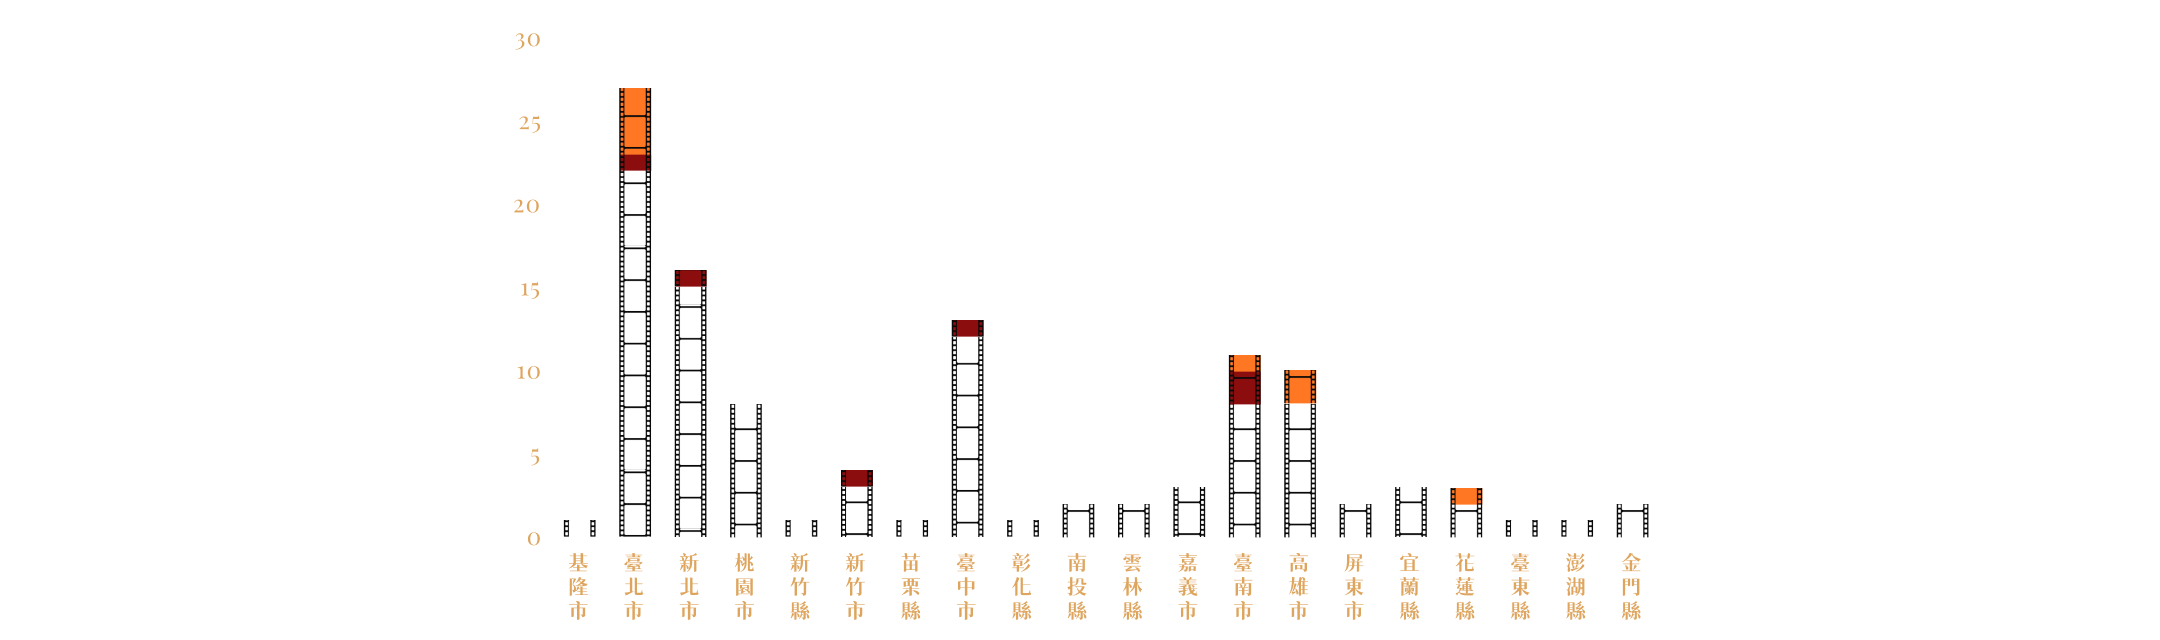
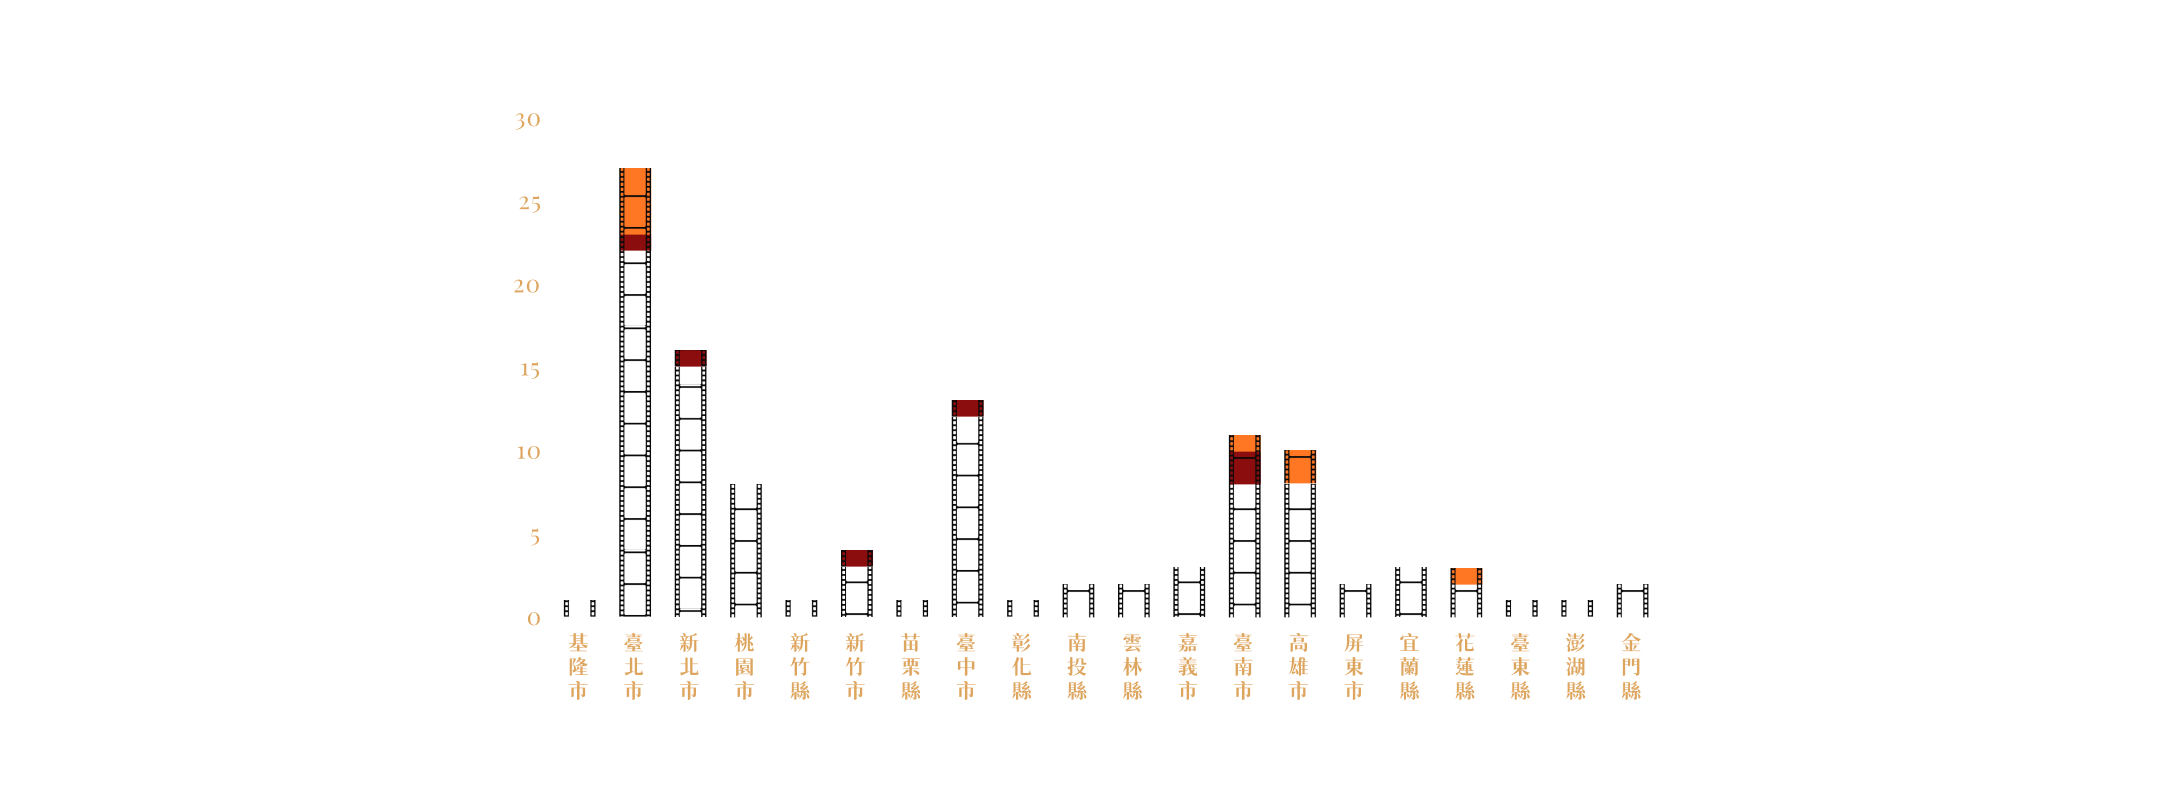
infographic

Changed region(s): [[0.2481, 0.125, 0.7755, 0.9688], [0.4343, 0.5, 0.4653, 0.7188]]

diff --git a/projects/classic-movie.html b/projects/classic-movie.html
@@ -264,12 +264,10 @@
             <div class="iteration">
               <div>Iteration 1</div>
               <div class="iterate-note">
-                As a UI Designer in this project, I reasonable forAs a UI
-                Designer in this project, I reasonable forAs a UI Designer in
-                this project, I reasonable forAs a UI Designer in this project,
-                I reasonable forAs a UI Designer in this project, I reasonable
-                forAs a UI Designer in this project, I reasonable forAs a UI
-                Designer in this project, I reasonable for
+                Displaying data across all districts individually reduces
+                interactivity. By organizing data for each zone, enrich the
+                interactive experience and enable viewers to make intuitive
+                comparisons by clicking on different zones.
               </div>
               <div>
                 <img
@@ -291,12 +289,8 @@
             <div class="iteration">
               <div>Iteration 2</div>
               <div class="iterate-note">
-                As a UI Designer in this project, I reasonable forAs a UI
-                Designer in this project, I reasonable forAs a UI Designer in
-                this project, I reasonable forAs a UI Designer in this project,
-                I reasonable forAs a UI Designer in this project, I reasonable
-                forAs a UI Designer in this project, I reasonable forAs a UI
-                Designer in this project, I reasonable for
+                To enhance the data's visual clarity, increased the font size
+                for theater numbers and removed Taiwan's map background.
               </div>
               <div>
                 <img
